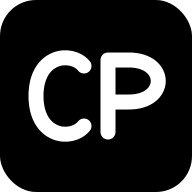
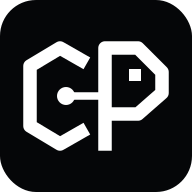
style: 为 CP 图标加入几何字形和智能连接节点

Changed region(s): [[0.0938, 0.1875, 0.9062, 0.8125]]

diff --git a/public/login.html b/public/login.html
@@ -1,1 +1,1 @@
-<!doctype html><html lang="zh-CN"><head><meta charset="utf-8"><meta name="viewport" content="width=device-width,initial-scale=1,viewport-fit=cover"><link rel="icon" type="image/png" sizes="64x64" href="/icon-cp-64.png"><link rel="apple-touch-icon" sizes="180x180" href="/icon-cp-180.png"><title>手机配对 · Codex Portal</title><link rel="stylesheet" href="/styles.css"><link rel="stylesheet" href="/mobile-ui.css"><link rel="manifest" crossorigin="use-credentials" href="/manifest.webmanifest"></head><body><main class="pairing-page"><h1>连接 Codex Portal</h1><p>首次访问时，在 Mac 工作台的“手机访问”中生成配对码。已配对设备将自动进入。</p><form id="pair-form" hidden><label for="pair-code">六位配对码</label><input id="pair-code" aria-describedby="pair-status" enterkeyhint="go" inputmode="numeric" autocomplete="one-time-code" pattern="[0-9]{6}" maxlength="6" required><button class="primary-button">配对并进入</button></form><p id="pair-status" role="status">正在检查已有登录…</p><button id="pair-retry" class="secondary-button" type="button" hidden>重新检查连接</button><p>重启或升级工作台不会清除手机登录。请使用原来的访问地址和浏览器；登录有效期由本机配对时设置。</p><p><a href="">重新加载页面</a></p><noscript>请启用 JavaScript 后重新加载页面。</noscript></main><script defer src="/login.js"></script></body></html>
+<!doctype html><html lang="zh-CN"><head><meta charset="utf-8"><meta name="viewport" content="width=device-width,initial-scale=1,viewport-fit=cover"><link rel="icon" type="image/png" sizes="64x64" href="/icon-cp-64.png?v=2"><link rel="apple-touch-icon" sizes="180x180" href="/icon-cp-180.png?v=2"><title>手机配对 · Codex Portal</title><link rel="stylesheet" href="/styles.css"><link rel="stylesheet" href="/mobile-ui.css"><link rel="manifest" crossorigin="use-credentials" href="/manifest.webmanifest"></head><body><main class="pairing-page"><h1>连接 Codex Portal</h1><p>首次访问时，在 Mac 工作台的“手机访问”中生成配对码。已配对设备将自动进入。</p><form id="pair-form" hidden><label for="pair-code">六位配对码</label><input id="pair-code" aria-describedby="pair-status" enterkeyhint="go" inputmode="numeric" autocomplete="one-time-code" pattern="[0-9]{6}" maxlength="6" required><button class="primary-button">配对并进入</button></form><p id="pair-status" role="status">正在检查已有登录…</p><button id="pair-retry" class="secondary-button" type="button" hidden>重新检查连接</button><p>重启或升级工作台不会清除手机登录。请使用原来的访问地址和浏览器；登录有效期由本机配对时设置。</p><p><a href="">重新加载页面</a></p><noscript>请启用 JavaScript 后重新加载页面。</noscript></main><script defer src="/login.js"></script></body></html>

diff --git a/public/index.html b/public/index.html
@@ -7,7 +7,7 @@
   <meta name="theme-color" content="#f7f8f5">
   <meta name="apple-mobile-web-app-capable" content="yes">
   <link rel="manifest" crossorigin="use-credentials" href="/manifest.webmanifest">
-  <link rel="icon" type="image/png" sizes="64x64" href="/icon-cp-64.png"><link rel="apple-touch-icon" sizes="180x180" href="/icon-cp-180.png">
+  <link rel="icon" type="image/png" sizes="64x64" href="/icon-cp-64.png?v=2"><link rel="apple-touch-icon" sizes="180x180" href="/icon-cp-180.png?v=2">
   <title>Codex Portal</title>
   <link rel="stylesheet" href="/styles.css"><link rel="stylesheet" href="/new-chat.css">
   <link rel="modulepreload" href="/app.js">
@@ -27,10 +27,15 @@
   <svg class="icon-defs" xmlns="http://www.w3.org/2000/svg" aria-hidden="true"><defs>
     <symbol id="i-question" viewBox="0 0 24 24"><path d="M21 11.5a8.5 8.5 0 0 1-8.5 8.5H4l-2 2v-10.5a9.5 9.5 0 0 1 19 0Z"/><path d="M9 8a3 3 0 0 1 6 0c0 2-3 2-3 4m0 3v.1"/></symbol>
     <symbol id="i-mark" viewBox="0 0 64 64">
-  <rect width="64" height="64" rx="12" fill="#000"/>
-  <g fill="none" stroke="#fff" stroke-width="5" stroke-linecap="round" stroke-linejoin="round">
-    <path d="M28 22C24 17 12 18 12 32s12 15 16 10"/>
-    <path d="M36 44V20h7c13 0 13 14 0 14h-7"/>
+  <rect width="64" height="64" rx="12" fill="#050608" stroke="none"/>
+  <g fill="none" stroke="#fff" stroke-width="4.5" stroke-linecap="square" stroke-linejoin="round">
+    <path d="M27 20l-7-4-10 6v20l10 6 7-4"/>
+    <path d="M35 48V16h11l8 8v7l-8 7H35"/>
+  </g>
+  <path d="M22 32h13" fill="none" stroke="#fff" stroke-width="2.5"/>
+  <g fill="#fff" stroke="none">
+    <circle cx="22" cy="32" r="3"/>
+    <path d="M43 23h4v4h-4z"/>
   </g>
 </symbol>
     <symbol id="i-mic" viewBox="0 0 24 24"><rect x="9" y="2" width="6" height="12" rx="3"/><path d="M5 10v2a7 7 0 0 0 14 0v-2M12 19v3m-4 0h8"/></symbol>
